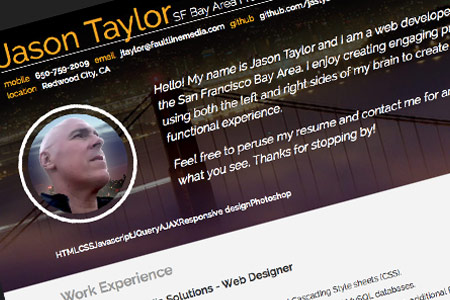
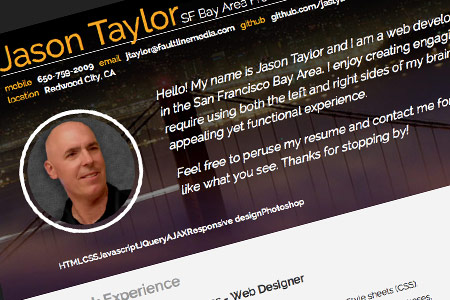
Add new profile pic and project pic

diff --git a/js/resumeBuilder.js b/js/resumeBuilder.js
@@ -14,7 +14,7 @@
 		},
 		"welcomeMessage": "<p>Hello! My name is Jason Taylor and I am a web developer living and working in the San Francisco Bay Area. I enjoy creating engaging projects which require using both the left and right sides of my brain to create a visually appealing yet functional experience.<\/p><p>Feel free to peruse my resume and contact me for any open positions if you like what you see. Thanks for stopping by!<\/p>",
 		"skills": ["HTML", "CSS", "Javascript", "JQuery", "AJAX", "Responsive design", "Photoshop"],
-		"biopic": "images/jason-taylor-01.jpg",
+		"biopic": "images/jason-profile-pic.jpg",
 		"display" : function() {
 			// Display name, role, picture and welcome message
 			$('#bio-name').append(HTMLheaderName.replace('%data%', bio.name));
